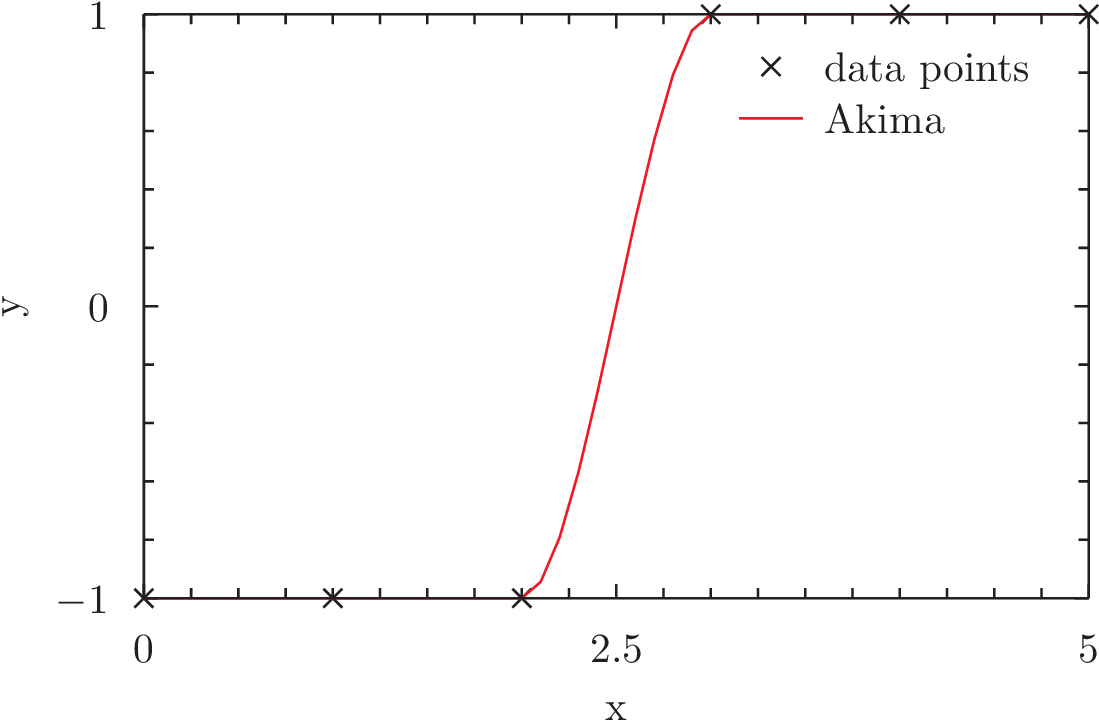
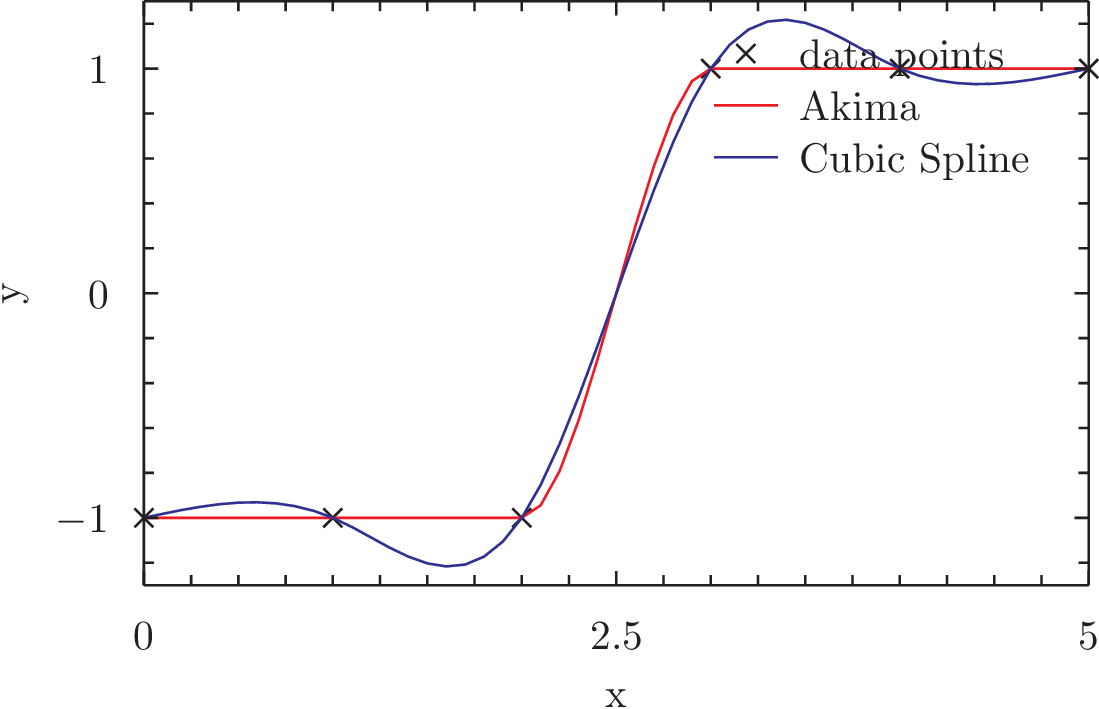
included cspline

diff --git a/exam/cspline.cs b/exam/cspline.cs
@@ -1,0 +1,107 @@
+using System; 
+using static System.Console;
+using static System.Math;
+
+public class cspline {
+	double[] x,y,b,c,d;
+	public cspline(double[] xs, double[] ys){
+		x = xs; 
+		y = ys;
+		int n = x.Length;
+
+		b = new double[n];
+		c = new double[n-1];
+		d = new double[n-1];
+		
+		var h = new  double[n-1];
+		var p = new  double[n-1];
+		
+		var B = new  double[n];
+		var D = new  double[n];
+		var Q = new  double[n-1];
+
+		var Dt = new double[n];
+		var Bt = new double[n];
+		
+
+		for(int i = 0; i < n-1; i++){
+			h[i] = x[i+1]-x[i];
+			p[i] = (y[i+1]-y[i])/h[i]; //dydx
+		}	
+		
+		D[0] = 2; D[n-1]=2; Q[0] = 1; B[0] = 3*p[0]; B[n-1]=3*p[n-2];
+		for(int i = 0; i < n-2; i++){
+			D[i+1] = 2*h[i]/h[i+1]+2;
+			Q[i+1] = h[i]/h[i+1];
+			B[i+1] = 3*(p[i]+p[i+1]*h[i]/h[i+1]);
+		}
+
+		
+		Dt[0] = D[0]; Bt[0] =B[0];
+		for(int i = 1; i < n; i++){
+			Dt[i] = D[i]-Q[i-1]/D[i-1];
+			Bt[i] = B[i] - Bt[i-1]/Dt[i-1];
+		}
+
+		b[n-1] = Bt[n-1]/Dt[n-1];
+		for(int i=n-2; i>=0; i--)
+			b[i]=(Bt[i]-Q[i]*b[i+1])/Dt[i];
+
+
+		for(int i=0; i<n-1; i++){
+			c[i]=(-2*b[i]-b[i+1]+3*p[i])/h[i];
+			d[i]=(b[i]+b[i+1]-2*p[i])/Pow(h[i],2);
+		}
+
+
+		// Write out b, c, d values to file
+		var WriteBCval = new System.IO.StreamWriter("bcval.txt", append:true);
+		WriteBCval.WriteLine("b	c	d");	
+		for(int i = 0; i<(x.Length-1);i++)
+			WriteBCval.WriteLine($"{b[i]}	{c[i]}	{d[i]}");
+		WriteBCval.WriteLine("");
+		WriteBCval.Close();
+	}
+	
+	public double spline(double z){
+		int i = binsearch(z);
+		return y[i] + b[i]*(z-x[i])+c[i]*Pow((z-x[i]),2)+d[i]*Pow((z-x[i]),3);
+	}
+
+
+	public double derivative(double z){
+		int i = binsearch(z); 
+		return b[i] +2 * c[i] *(z-x[i]) + 3 * d[i] * Pow(z-x[i],2);	
+	}
+
+
+	public double integral(double z){
+		int j = binsearch(z); 
+		double val = 0; 
+		for(int i = 0; i < j; i++)
+			val +=  partint(i,x[i+1]);
+		val +=  partint(j,z);
+		return val;
+	}
+
+	int binsearch(double z){
+		/*Locate the idenx i for which x_i<=z<=x_(i+1)*/
+		int i = 0;
+		int j = x.Length-1;
+		
+		if(x[0] > z || x[j] < z)
+			throw new Exception("binsearch: bad z");
+ 
+		while(j - i > 1){
+			int m = (i+j)/2; 
+			if(z > x[m]) i = m; 
+			else j = m; 
+		}
+		return i; 
+	}
+	double partint(int i, double z){
+		return (z-x[i])/12*(12*y[i] + 6*b[i]*(z-x[i]) + 4*c[i]*Pow(z-x[i],2) + 3*d[i] *(Pow(z,3)-3*x[i]*Pow(z,2) + 3*z*Pow(x[i],2) -Pow(x[i],3)));
+	}
+
+}
+

diff --git a/exam/main.cs b/exam/main.cs
@@ -1,14 +1,15 @@
 using System; 
 using static System.Console; 
 using static System.Math; 
-//using akima; 
+
 
 class main{
 	static void Main(){
 		double[] x = {0,1,2,3,4,5}; 
 		double[] y = {-1,-1,-1,1,1,1};
 		
-		var subs = new akima(x,y);		
+		var subs = new akima(x,y);	
+		var cs = new cspline(x,y); 
 
 		for(int i = 0; i < x.Length; i++)
 			WriteLine($"{x[i]}	{y[i]}"); 
@@ -17,6 +18,12 @@ class main{
 
 		for(double xp = x[0]; xp < x[x.Length-1]; xp+=0.1){
 			WriteLine($"{xp}	{subs.getS(xp)}");
+		}
+		WriteLine("");
+		WriteLine("");		
+
+		for(double xp = x[0]; xp < x[x.Length-1]; xp+=0.1){
+			WriteLine($"{xp}	{cs.spline(xp)}");
 		}
 	}
 
